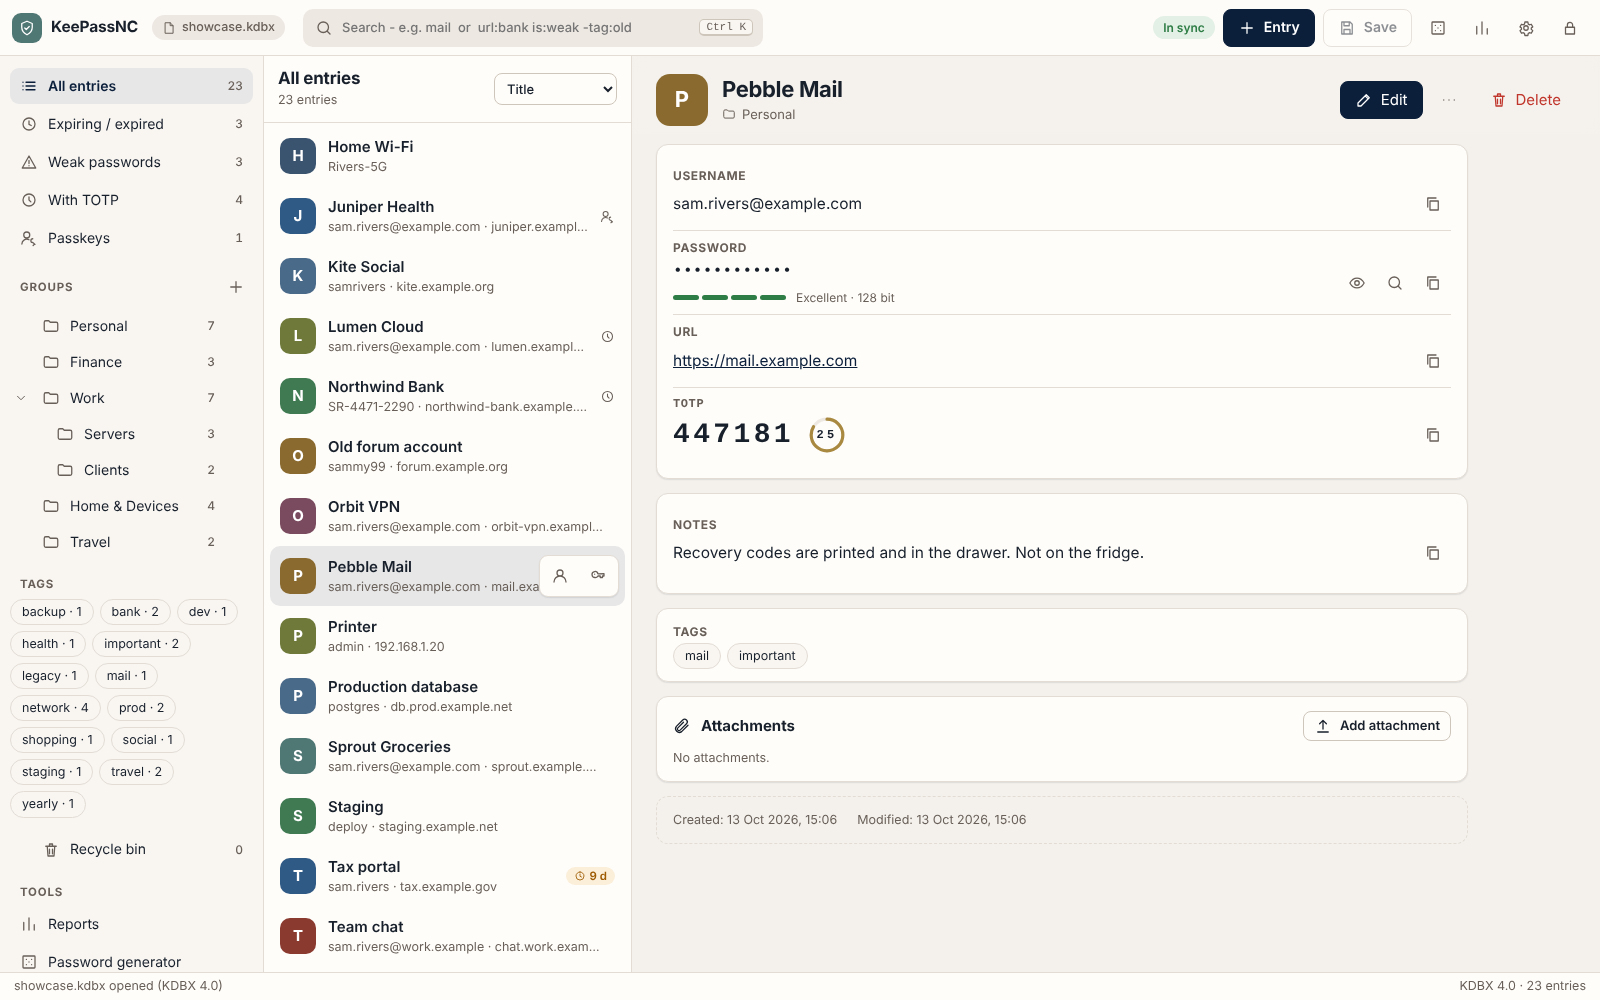
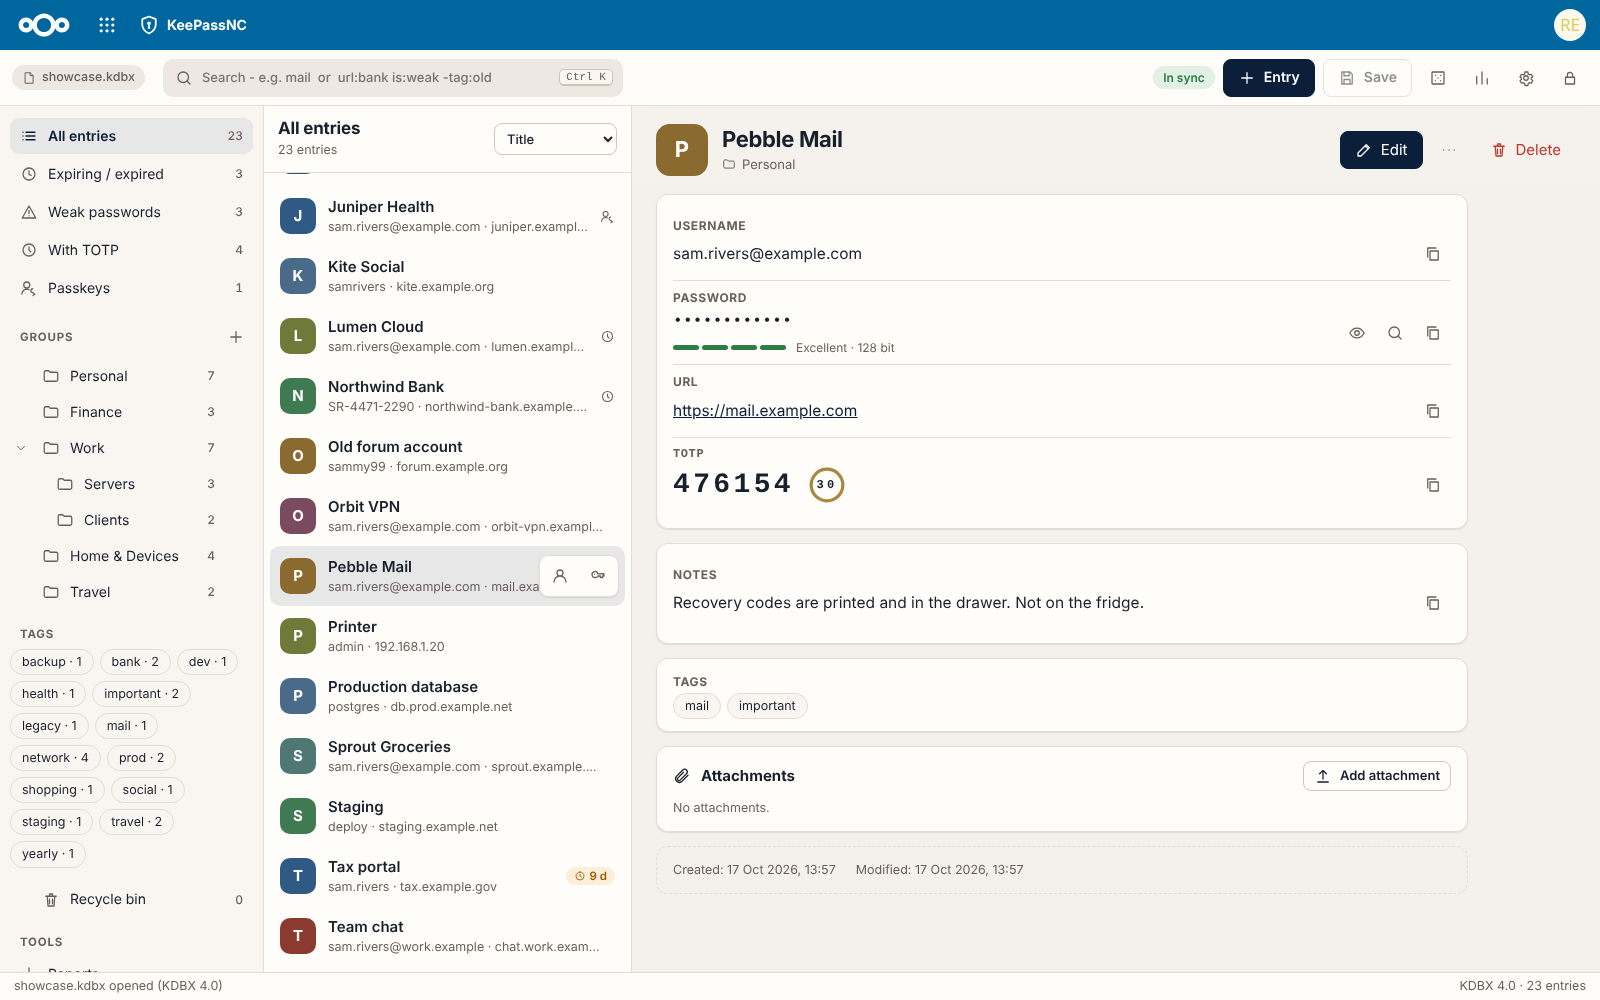
README screenshots from inside Nextcloud
tools/shots.mjs gets a Nextcloud mode (SHOTS_NC, SHOTS_NC_USER,
SHOTS_NC_PASS): it uploads the showcase file via WebDAV, signs in and
shoots the app with the real header, app icons and avatar. The six
README images are retaken that way against Nextcloud 35 with the stock
theme, so they show what most instances will see.

With the Nextcloud header on top, the app's own "KeePassNC" mark in the
top bar is hidden: the name is already in the header.

Claude-Session: https://claude.ai/code/session_011ECwn17HNtRusA7KV6Aqoa

diff --git a/src/keepassnc.css b/src/keepassnc.css
@@ -160,6 +160,7 @@ details > summary.card-title { cursor: pointer; list-style: none; margin: 0; } d
 /* ---------- Nextcloud-Kopfleiste (ui/ncheader.js) ---------- */
 body.has-nch .login { min-height: calc(100vh - var(--nch-h)); }
 body.has-nch .shell { height: calc(100vh - var(--nch-h)); height: calc(100dvh - var(--nch-h)); }
+body.has-nch .topbar .brand { display: none; } /* der Name steht schon in der Kopfleiste */
 .nch { position: relative; z-index: 30; display: flex; align-items: center; gap: 4px; height: var(--nch-h); padding: 0 8px; background: var(--nch-bg, #0b1f3b); color: var(--nch-fg, #fff); --nch-hover: rgb(255 255 255 / .18); }
 .nch[data-fg="dark"] { --nch-hover: rgb(0 0 0 / .1); }
 .nch a { color: inherit; text-decoration: none; }

diff --git a/CLAUDE.md b/CLAUDE.md
@@ -32,7 +32,8 @@ browser only. Start with `README.md`, `CONTRIBUTING.md` (build, tests, layout) a
   `_Generated by [Claude Code](https://claude.ai/code)_` (the GitHub connection adds the same footer and drops duplicates).
   No extra "Made with AI help", no "🤖 Generated with" line, no session link.
 - README screenshots: `python3 -I tools/make-showcase.py <dir> && npm run build && SHOTS_DB=showcase SHOTS_LANG=en node tools/shots.mjs <dir> <out>`,
-  then copy the six images used by the README into `docs/screenshots/`.
+  then copy the six images used by the README into `docs/screenshots/`. Since the Nextcloud header, the README shows the app inside
+  Nextcloud: run a local Nextcloud with the app enabled and add `SHOTS_NC=<base url> SHOTS_NC_USER=… SHOTS_NC_PASS=…` (see `tools/shots.mjs`).
 
 ## Known test quirks
 

diff --git a/README.md b/README.md
@@ -6,7 +6,7 @@ Click your `.kdbx` file in Files, type your master password, done.
 It's still a plain KeePass file, so **KeePassXC, KeePassDX and Strongbox keep working on the very same file**.
 No lock-in, no special format, no drama.
 
-![KeePassNC on a desktop: groups and tags on the left, the entry list, and an entry with a live TOTP code](docs/screenshots/desktop-detail.png)
+![KeePassNC in Nextcloud on a desktop: the Nextcloud header on top, groups and tags on the left, the entry list, and an entry with a live TOTP code](docs/screenshots/desktop-detail.png)
 
 <p>
   <img src="docs/screenshots/dark-detail.png" width="62%" alt="Dark mode">
